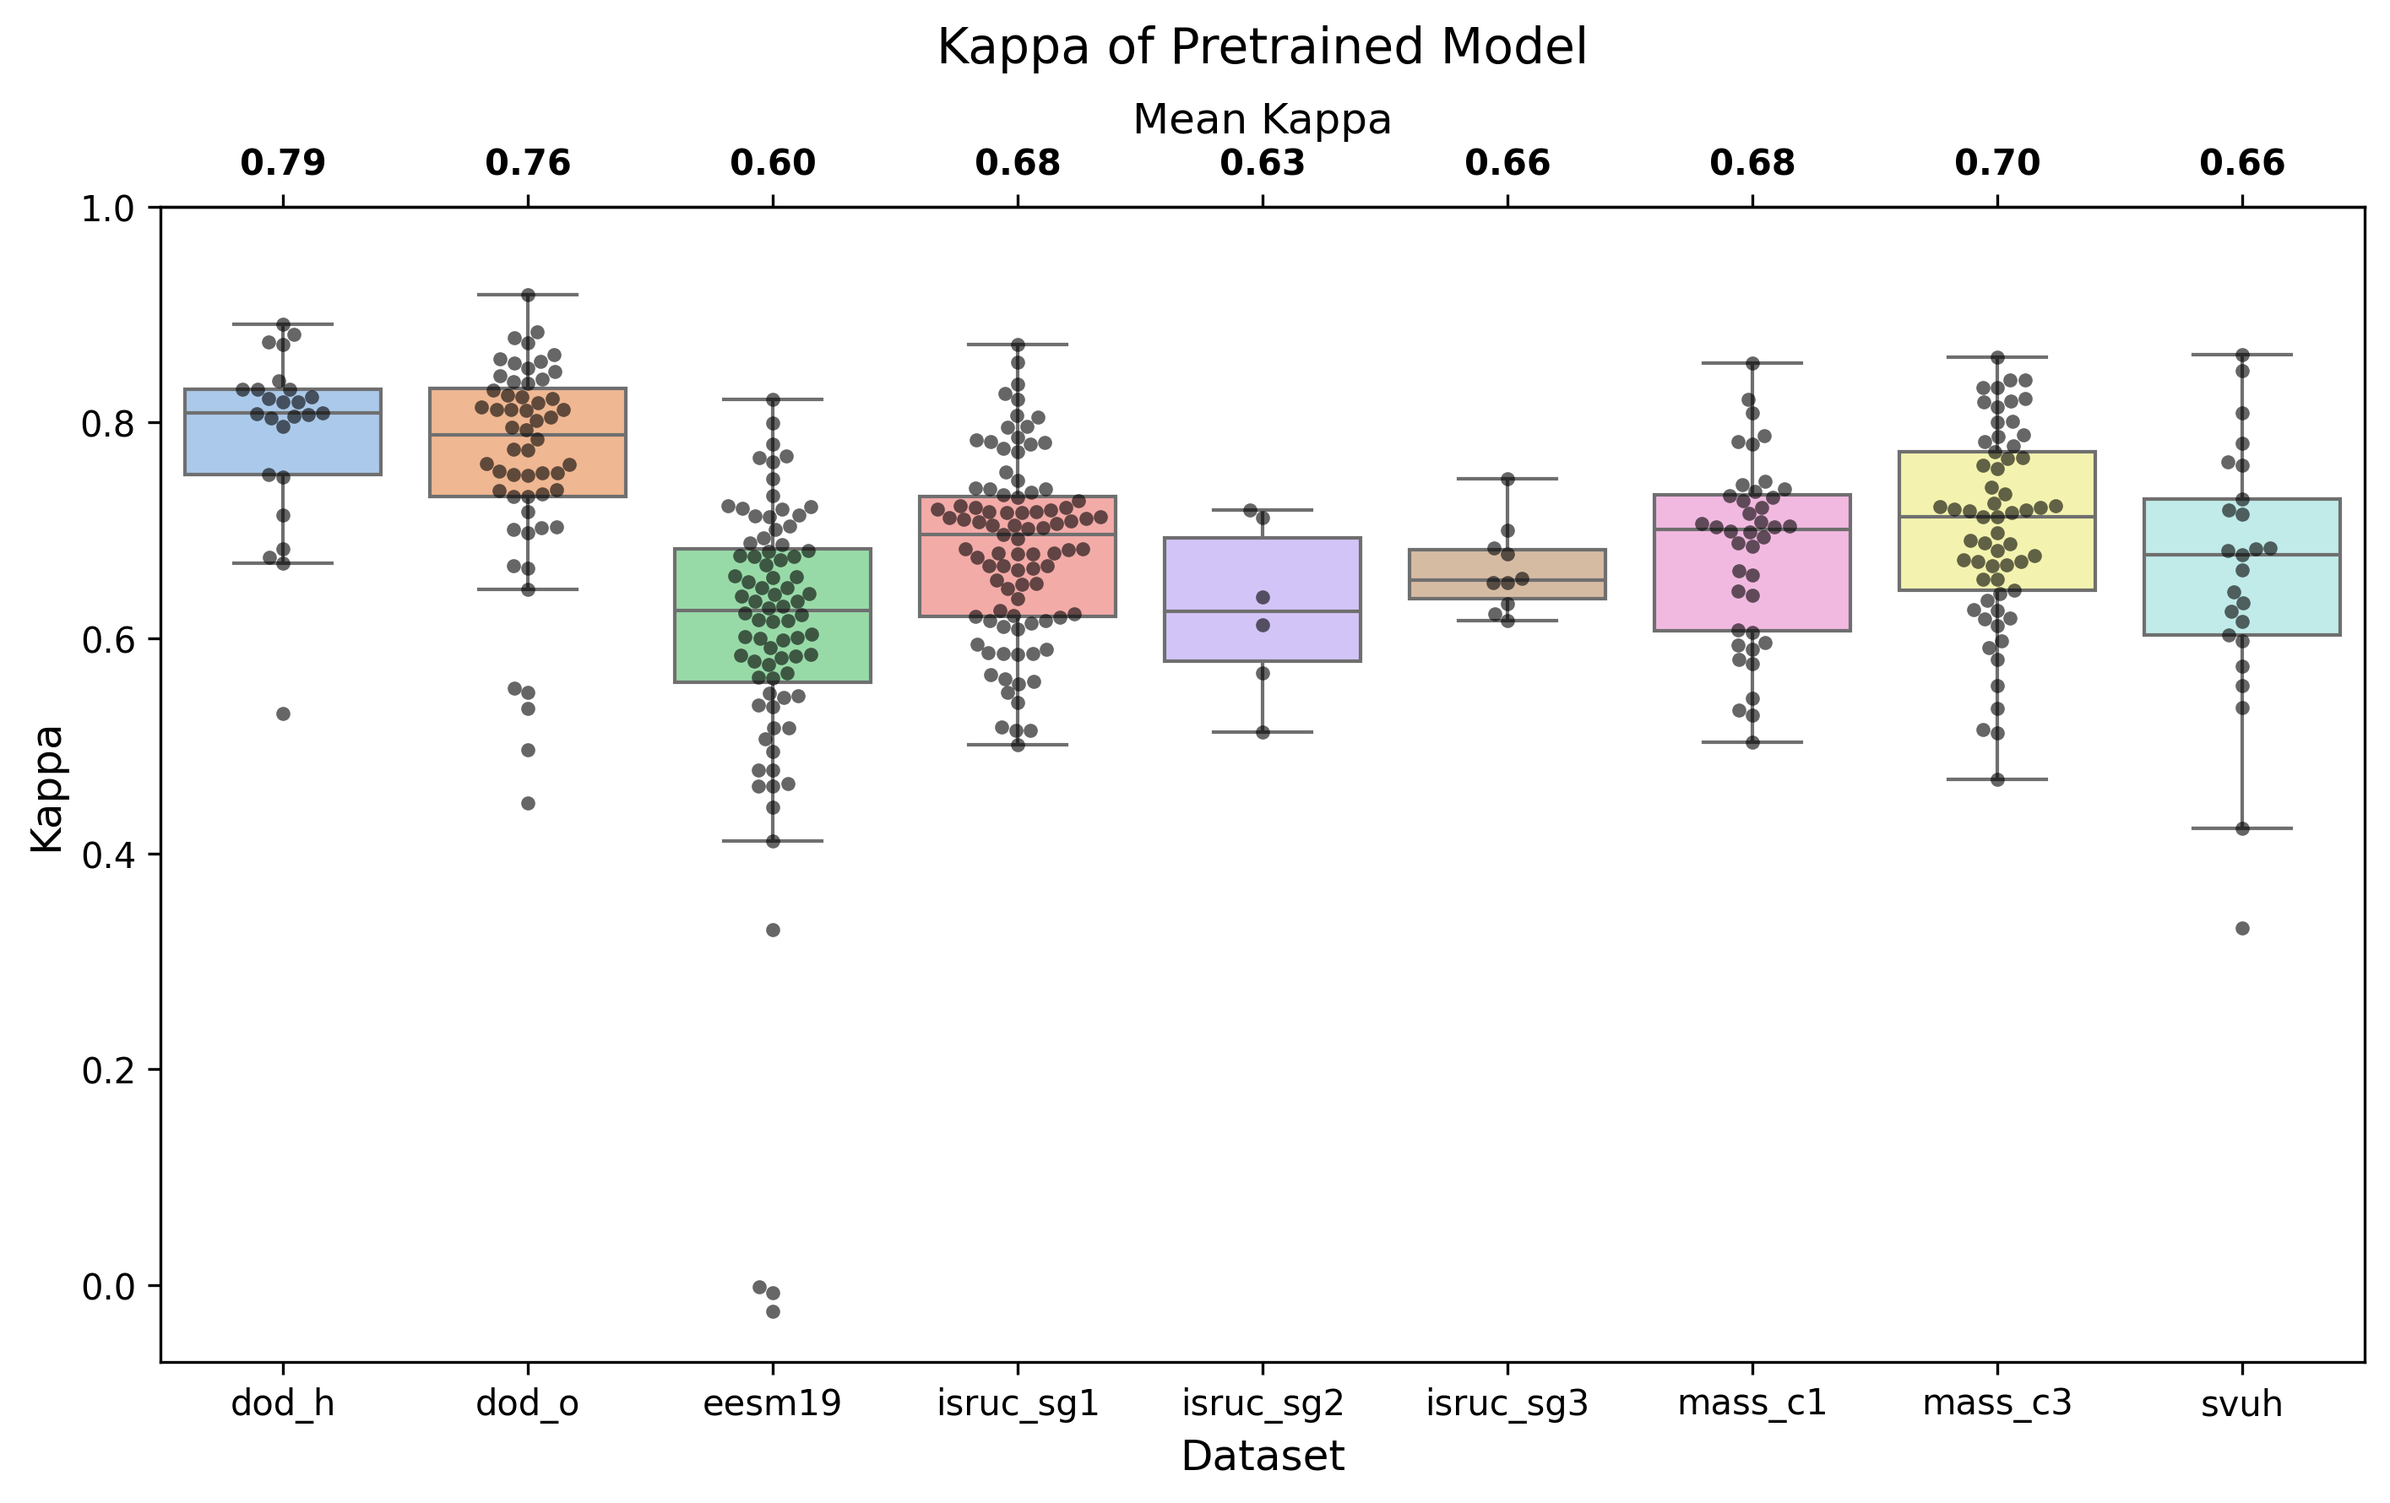
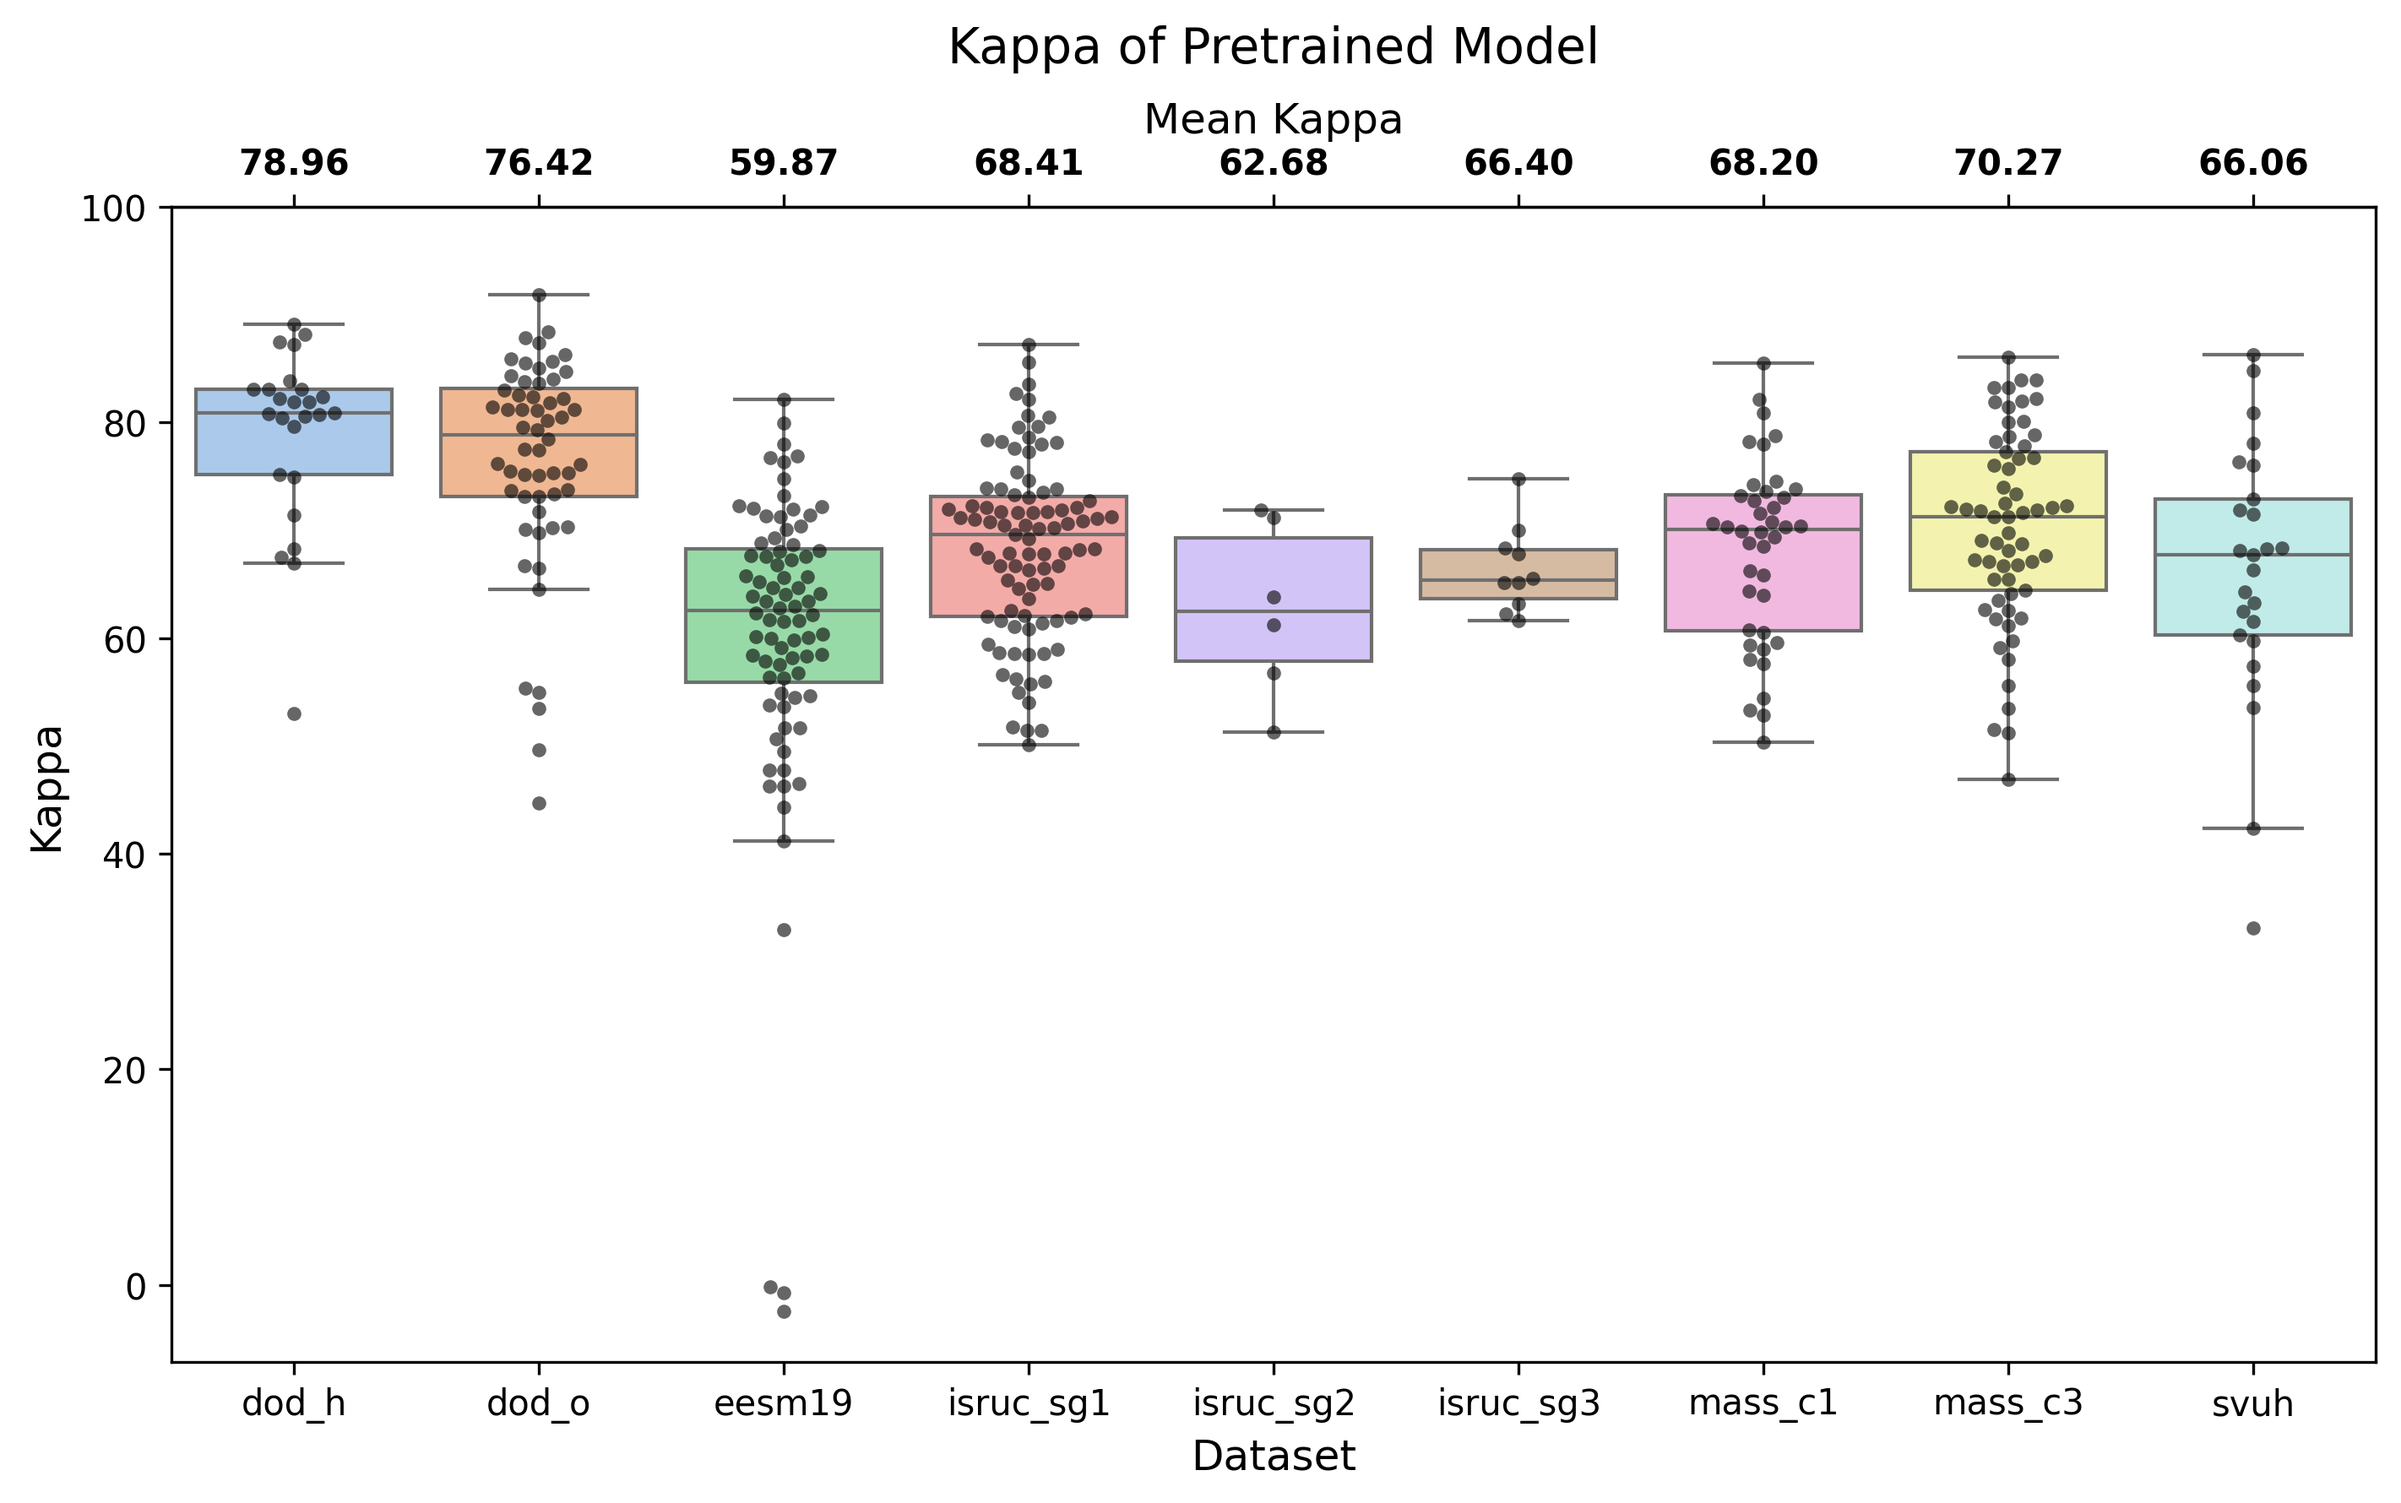
scaled pretrained with 100

diff --git a/src/plot/pretrained_kappa.py b/src/plot/pretrained_kappa.py
@@ -10,6 +10,7 @@ from src.utils.neptune_api.method_data import extract_performance
 
 def plot_pretrained_kappa_performance(show: bool = False) -> None:
     data = _get_pretrained_kappa_data()
+    data = data.with_columns(pl.col("kappa") * 100)
     _plot_pretrained_kappa_performance(data, show=show)
 
 
@@ -67,7 +68,7 @@ def _plot_pretrained_kappa_performance(data: pl.DataFrame, show: bool = False) -
     plt.suptitle("Kappa of Pretrained Model", size=14, x=center, ha="center")
     plt.xlabel("Dataset", fontsize=12)
     plt.ylabel("Kappa", fontsize=12)
-    plt.ylim(top=1)
+    plt.ylim(top=100)
 
     ax.set_xticklabels(ax.get_xticklabels(), fontsize=10)
     ax.set_yticklabels(ax.get_yticklabels(), fontsize=10)
